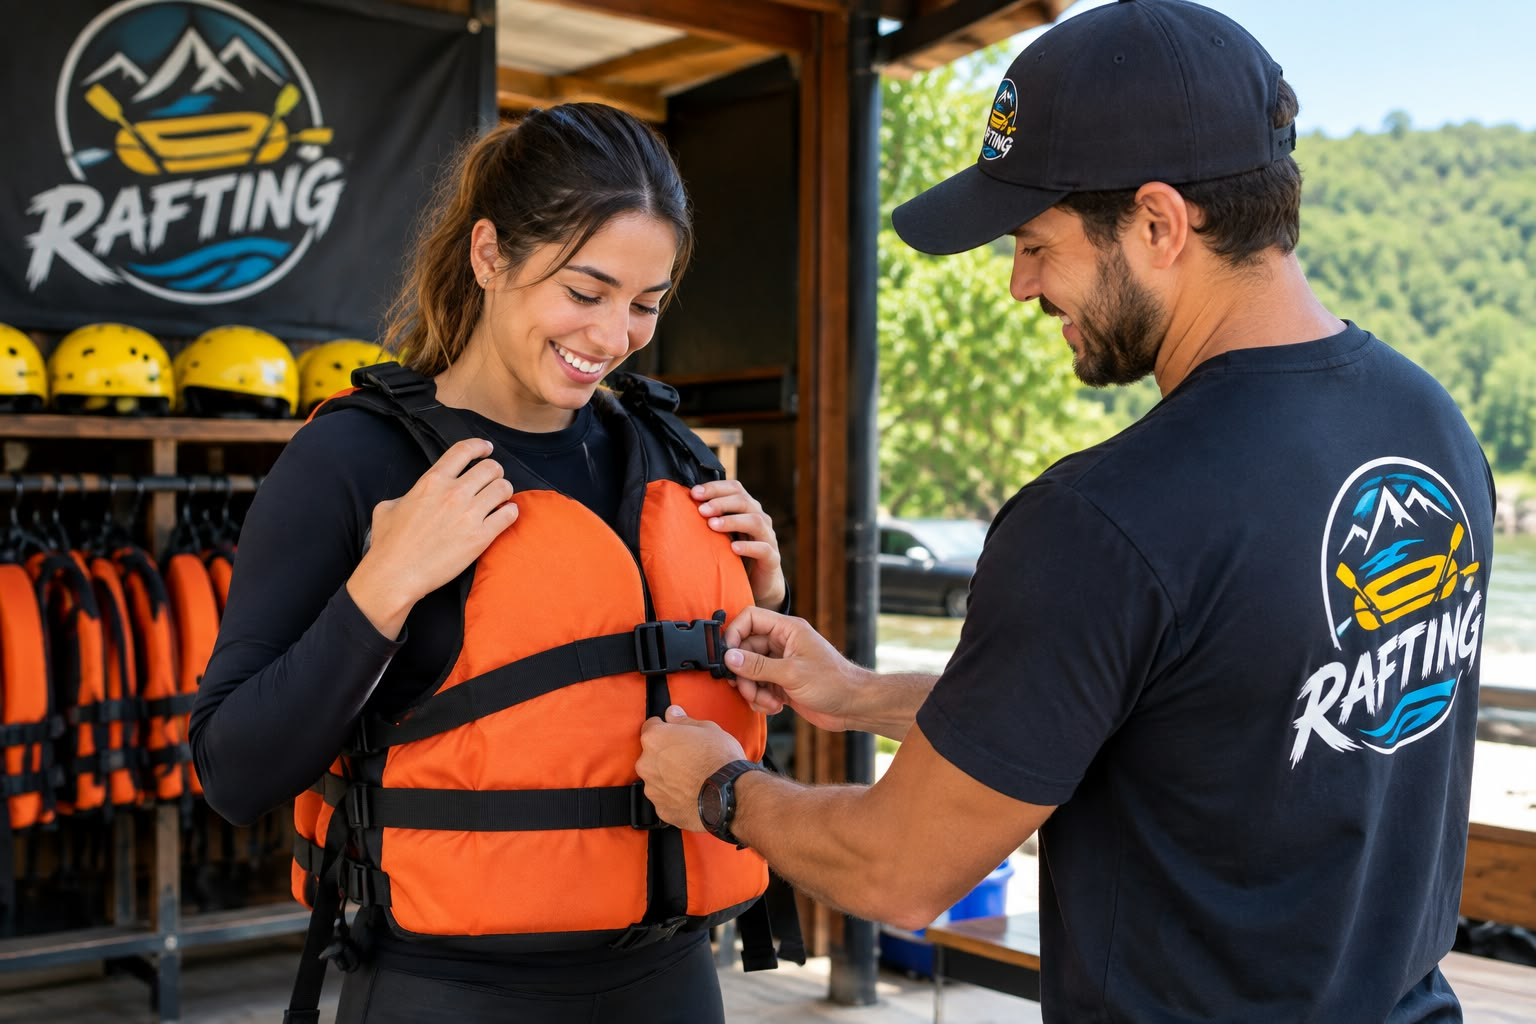
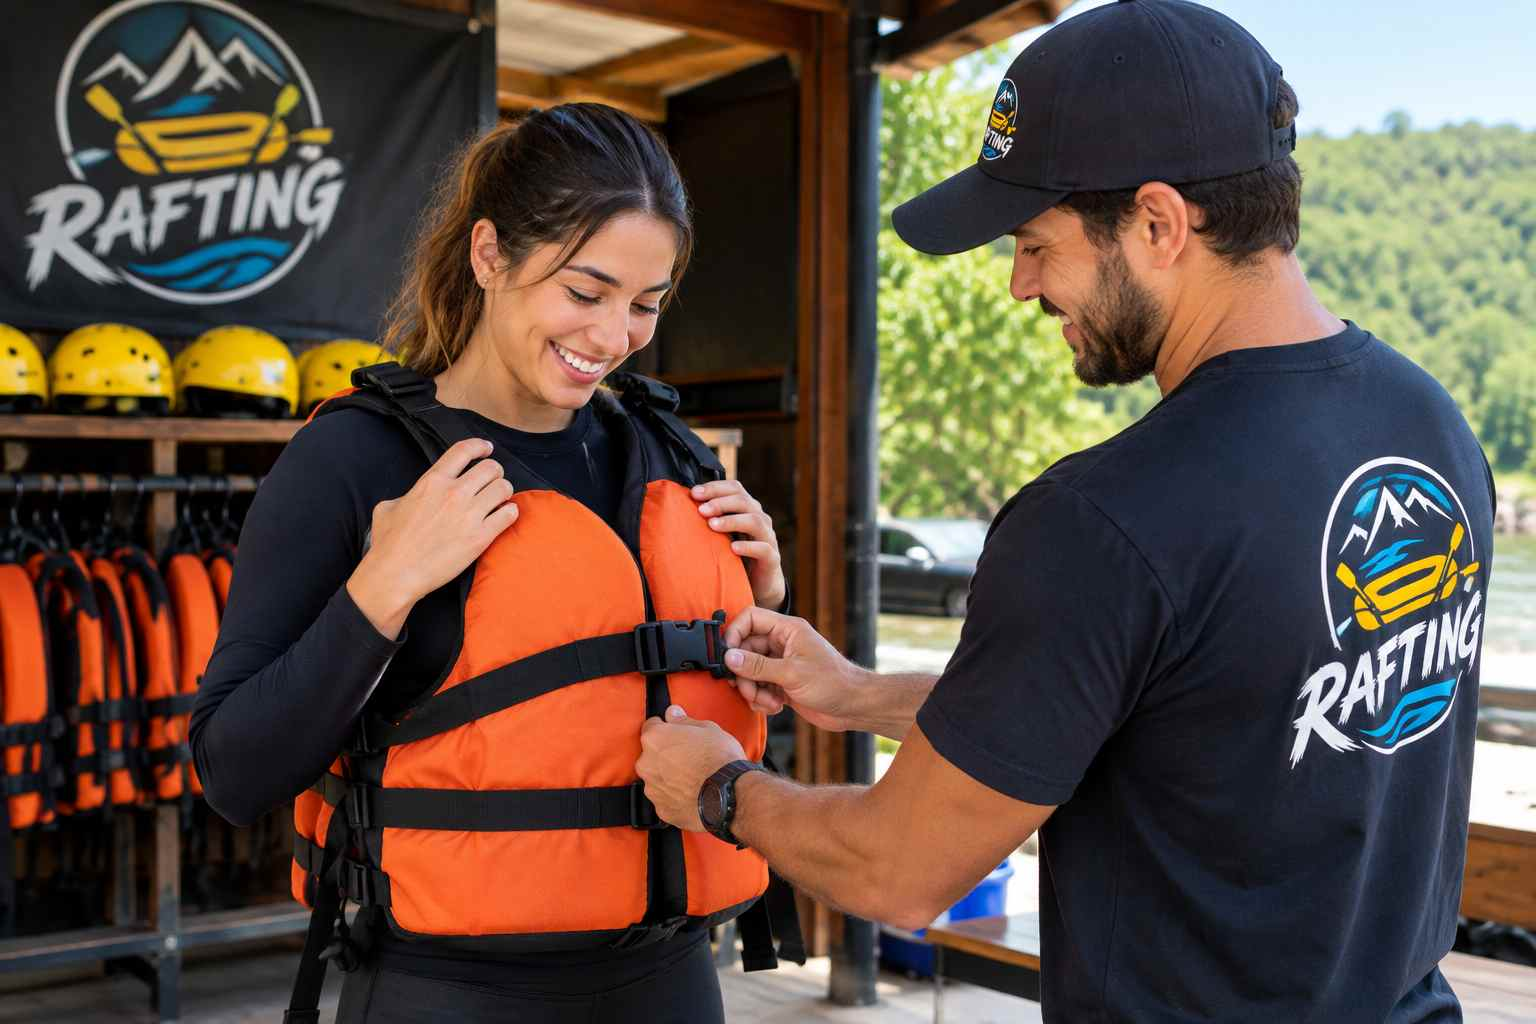
modificações

Changed region(s): [[0.875, 0.5312, 0.9688, 0.625], [0.625, 0.0938, 0.6562, 0.1562], [0.9062, 0.6875, 0.9375, 0.7188]]

diff --git a/wwr/sobre.html b/wwr/sobre.html
@@ -26,21 +26,14 @@
             <h1>Rio Abaixo Rafting</h1>
             <article>
                 <img src="imagens/cliente-funcionario.jpeg" alt="Cliente feliz aproveitando o rafting">
-                <p>Somos uma empresa fundada em setembro de 2026 e temos qualidade e compromisso em entregar atividade Rafting com segurança e diversão.</p>
+                <p>Somos uma empresa fundada em setembro de 2026 e temos qualidade e compromisso em entregar atividade de Rafting com segurança e diversão.</p>
             </article>
         </div>
 
         <section>
             <h2>História</h2>
-            <p>A Aventura Rafting começou com um pequeno grupo de apaixonados por rios e esportes ao ar livre. Reunimos guias qualificados, pra proporcionar segurança e diversão aos nossos clientes.</p>
-                
-        </section>
-
-        <section>
-            <h2>Contato</h2>
-            <p>Telefone: +55 (71) 98765-4321</p>
-            <p>E-mail: contato@rioabaixorafting.com</p>
-        </section>
+            <p>A Aventura Rafting começou com um pequeno grupo de apaixonados por rios e esportes ao ar livre. Com o tempo, reunimos guias qualificados, aprimoramos nossos equipamentos e construímos uma reputação baseada em segurança e diversão.</p>
+    
 
         <section>
             <h2>A aventura está te esperando!</h2>
